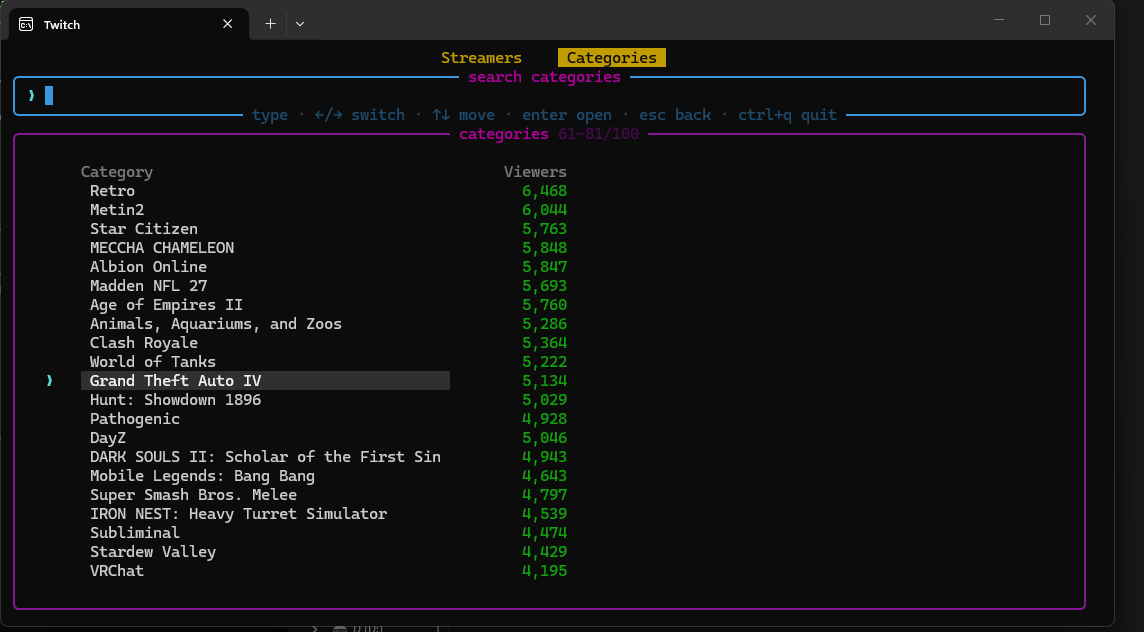
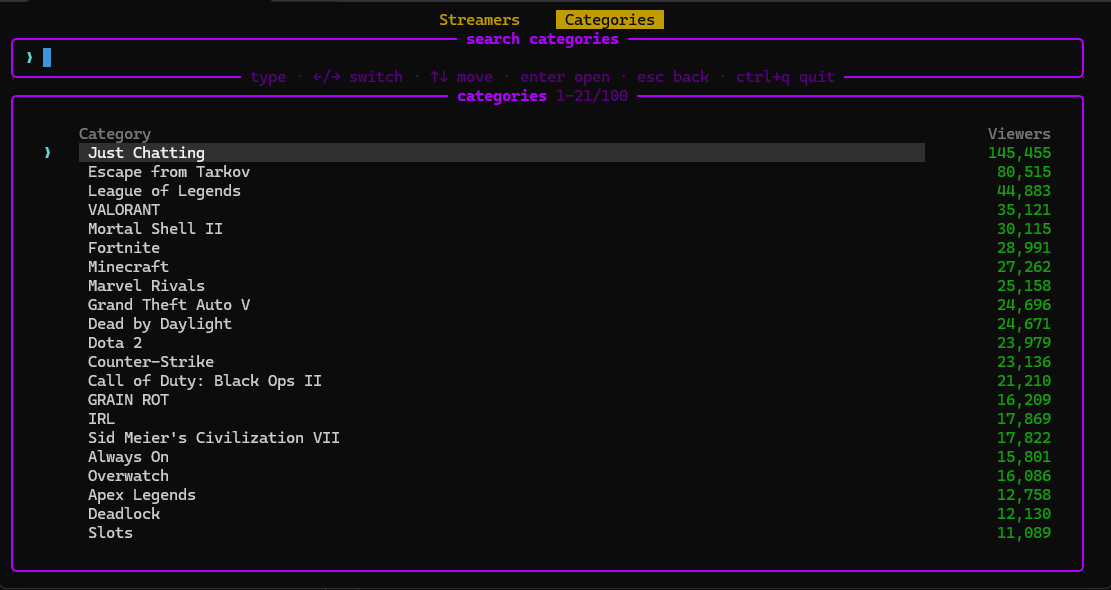
docs: refresh README screenshots
Drop Search shot, update followed/categories images.

Changed region(s): [[0.0, 0.0, 0.9793, 1.0]]

diff --git a/README.md b/README.md
@@ -32,9 +32,7 @@ API key.
 
 ![Followed channels](docs/screenshots/followed.png)
 
-| Search | Categories |
-|---|---|
-| ![Search](docs/screenshots/search.png) | ![Categories](docs/screenshots/categories.png) |
+![Categories](docs/screenshots/categories.png)
 
 ## Features
 
